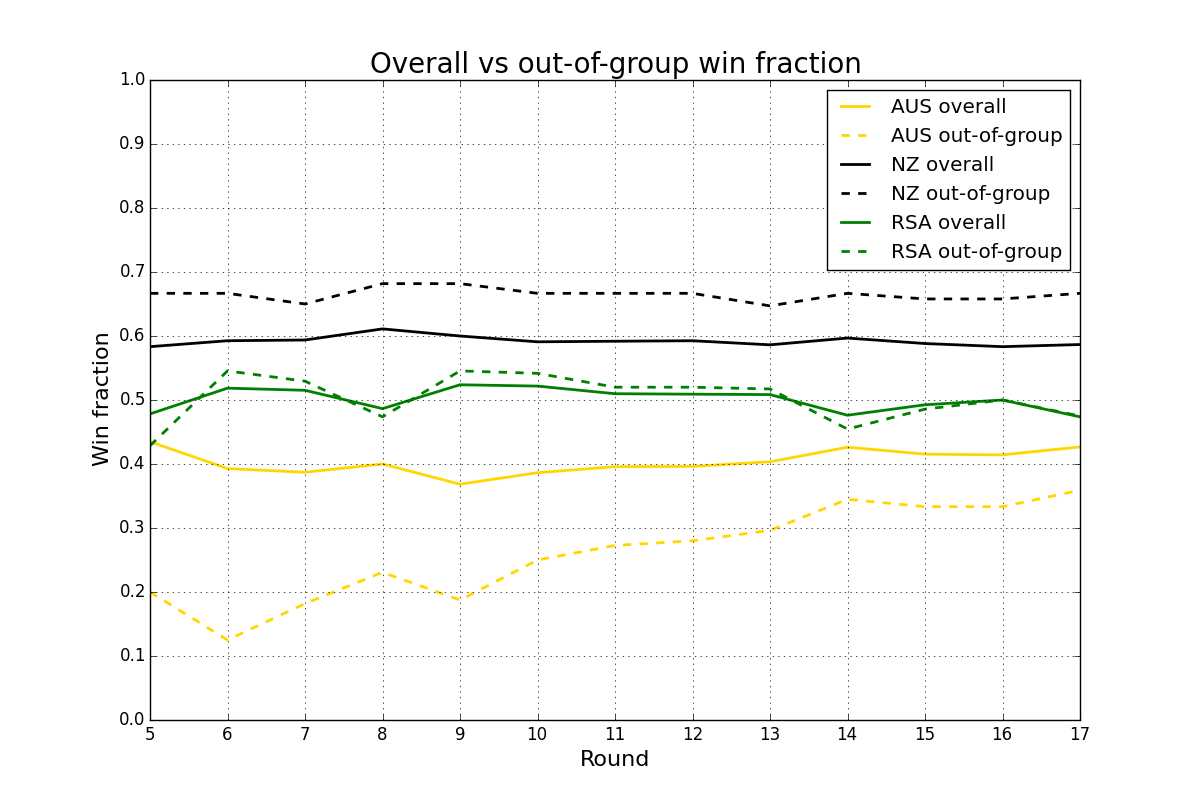
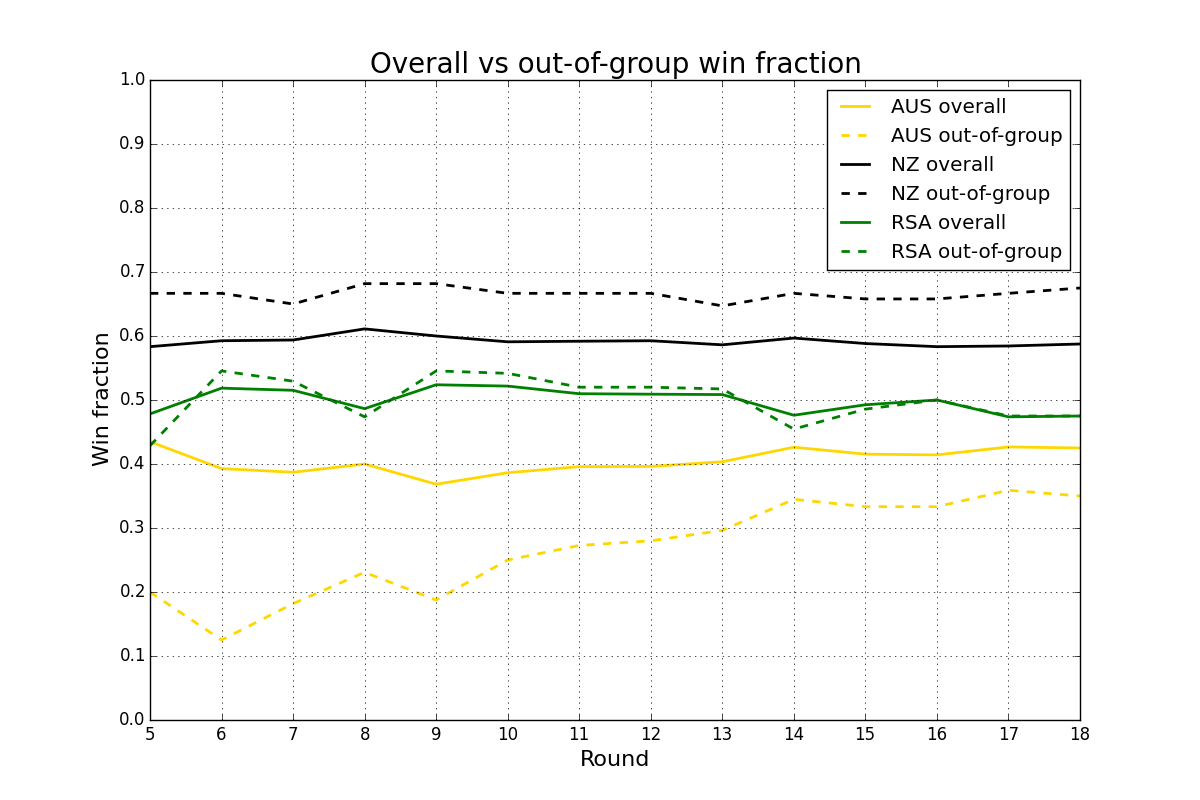
Updated to include round 18.

diff --git a/README.md b/README.md
@@ -15,11 +15,11 @@ I wrote a program to examine this.
 
 ## Results
 
-The results (see the Details section below) show that NZ group teams have
-won 44/75 (58.7%) of their games overall. But if you look at their record
-just in out-of-group games, the percentage goes up: they've won 26/39
-(66.6%). In contrast, Australian group teams have won 32/75 (42.7%) of
-their games overall, but in out-of-group have won only 14/39 (35.9%).
+The results (see the Details section below) show that NZ group teams
+won 47/80 (58.75%) of their games overall. But if you look at their record
+just in out-of-group games, the percentage goes up: they've won 27/40
+(67.5%). In contrast, Australian group teams won 34/80 (42.5%) of
+their games overall, but in out-of-group have won only 14/40 (35%).
 
 I.e., the Australian record is worse than it appears if you just consider
 their overall competition win/loss percentage.  Meanwhile, the NZ teams are
@@ -35,8 +35,8 @@ Zealand is likely to beat Australia in a test. That's because the players
 in the Super Rugby teams that are winning very few games are much less
 likely to be picked for their national sides.
 
-The program's graphical and textual output (as of June 7 2015, following
-Round 17) are shown below.
+The program's graphical and textual output (as of June 13 2015, following
+Round 18) are shown below.
 
 The graph shows how the overall win fraction versus the out-of-group win
 fraction has changed over time for each of the countries. Only rounds 5
@@ -51,51 +51,51 @@ Below is the detailed output of the program with results broken down by
 group.
 
 ```
-Results through round 17
+Results through round 18
 
                   Overall    vs AUS     vs NZ      vs RSA
 Team         P    W  L  D    W  L  D    W  L  D    W  L  D
- HUR (NZ) : 15   13  2  0    3  1  0    6  1  0    4  0  0
- STO (RSA): 15   10  4  1    4  0  0    1  3  0    5  1  1
- CHF (NZ) : 15   10  5  0    3  1  0    4  3  0    3  1  0
- HIG (NZ) : 15   10  5  0    3  1  0    4  3  0    3  1  0
- WAR (AUS): 15   10  5  0    5  2  0    3  1  0    2  2  0
- BRU (AUS): 15    9  6  0    5  3  0    1  2  0    3  1  0
+ HUR (NZ) : 16   14  2  0    3  1  0    7  1  0    4  0  0
+ HIG (NZ) : 16   11  5  0    3  1  0    5  3  0    3  1  0
+ WAR (AUS): 16   11  5  0    6  2  0    3  1  0    2  2  0
+ STO (RSA): 16   10  5  1    4  0  0    1  3  0    5  2  1
+ CHF (NZ) : 16   10  6  0    3  1  0    4  4  0    3  1  0
  LIO (RSA): 16    9  6  1    3  1  0    2  2  0    4  3  1
- CRU (NZ) : 15    8  7  0    1  2  0    4  4  0    3  1  0
- BUL (RSA): 15    7  8  0    2  2  0    1  3  0    4  3  0
- REB (AUS): 15    7  8  0    3  4  0    3  1  0    1  3  0
- SHA (RSA): 15    6  9  0    3  1  0    1  3  0    2  5  0
- CHT (RSA): 15    4 11  0    1  3  0    1  3  0    2  5  0
- RED (AUS): 15    4 11  0    3  4  0    0  4  0    1  3  0
- BLU (NZ) : 15    3 12  0    2  2  0    0  7  0    1  3  0
- FOR (AUS): 15    2 13  0    2  5  0    0  4  0    0  4  0
+ BRU (AUS): 16    9  7  0    5  3  0    1  3  0    3  1  0
+ CRU (NZ) : 16    9  7  0    2  2  0    4  4  0    3  1  0
+ BUL (RSA): 16    7  9  0    2  2  0    1  3  0    4  4  0
+ REB (AUS): 16    7  9  0    3  5  0    3  1  0    1  3  0
+ SHA (RSA): 16    7  9  0    3  1  0    1  3  0    3  5  0
+ CHT (RSA): 16    5 11  0    1  3  0    1  3  0    3  5  0
+ RED (AUS): 16    4 12  0    3  5  0    0  4  0    1  3  0
+ BLU (NZ) : 16    3 13  0    2  2  0    0  8  0    1  3  0
+ FOR (AUS): 16    3 13  0    3  5  0    0  4  0    0  4  0
 
 AUS teams:
-  75 games played (39 vs other groups, 36 within group)
+  80 games played (40 vs other groups, 40 within group)
   vs NZ   W  L  D
-          7 12  0
+          7 13  0
   vs RSA  W  L  D
           7 13  0
-  Wins overall: 32/75 (42.67%)
-  Wins out-of-group: 14/39 (35.90%)
+  Wins overall: 34/80 (42.50%)
+  Wins out-of-group: 14/40 (35.00%)
 
 NZ  teams:
-  75 games played (39 vs other groups, 36 within group)
+  80 games played (40 vs other groups, 40 within group)
   vs AUS  W  L  D
-         12  7  0
+         13  7  0
   vs RSA  W  L  D
          14  6  0
-  Wins overall: 44/75 (58.67%)
-  Wins out-of-group: 26/39 (66.67%)
+  Wins overall: 47/80 (58.75%)
+  Wins out-of-group: 27/40 (67.50%)
 
 RSA teams:
-  76 games played (40 vs other groups, 36 within group)
+  80 games played (40 vs other groups, 40 within group)
   vs AUS  W  L  D
          13  7  0
   vs NZ   W  L  D
           6 14  0
-  Wins overall: 36/76 (47.37%)
+  Wins overall: 38/80 (47.50%)
   Wins out-of-group: 19/40 (47.50%)
 ```
 
@@ -104,8 +104,11 @@ Some notes:
 * The team results table is not ordered by competition points, but by
 number of wins.
 
-* RSA teams have won 13 out of 18 matches against AUS teams, but only 6
+* RSA teams have won 13 out of 20 matches against AUS teams, but only 6
 out of 20 against NZ teams.
+
+* AUS has an equal record against NZ and RSA, 7 games won out of 20 in both
+cases.
 
 ## Technical stuff
 
